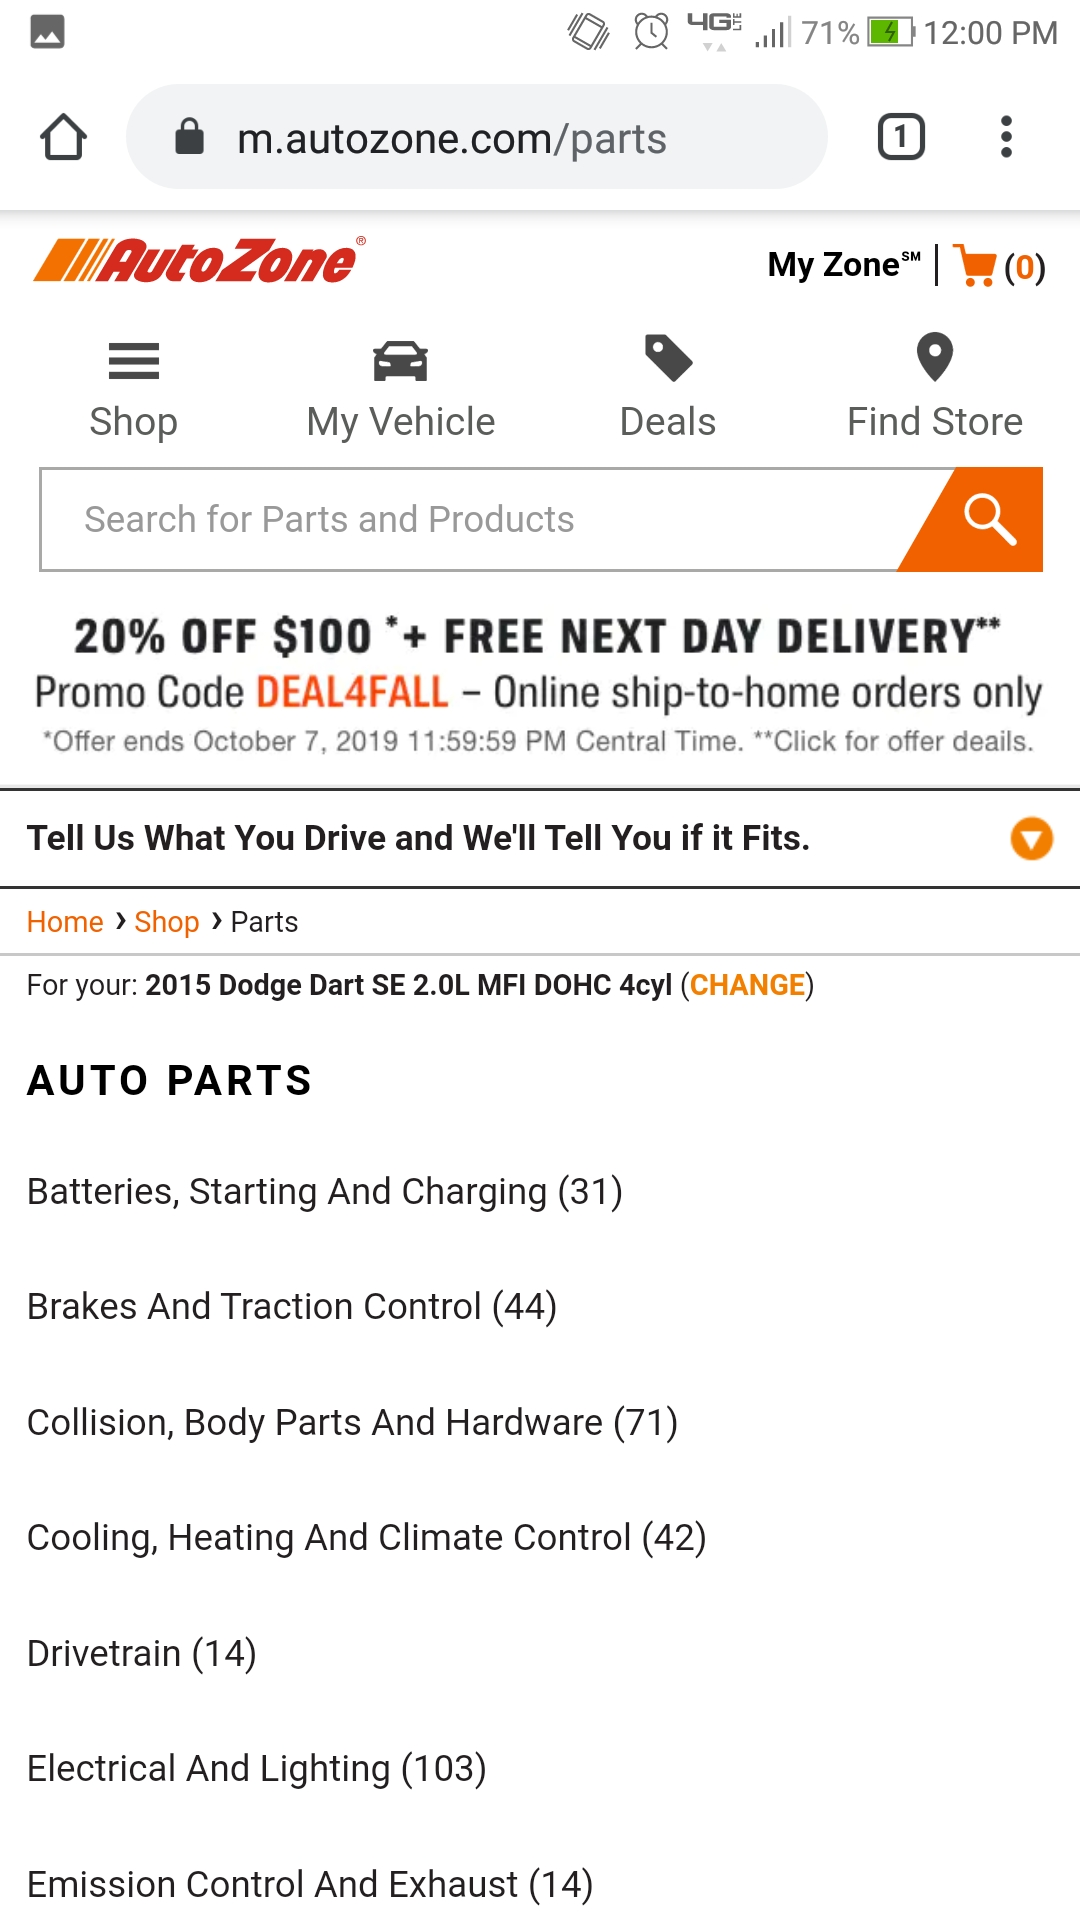
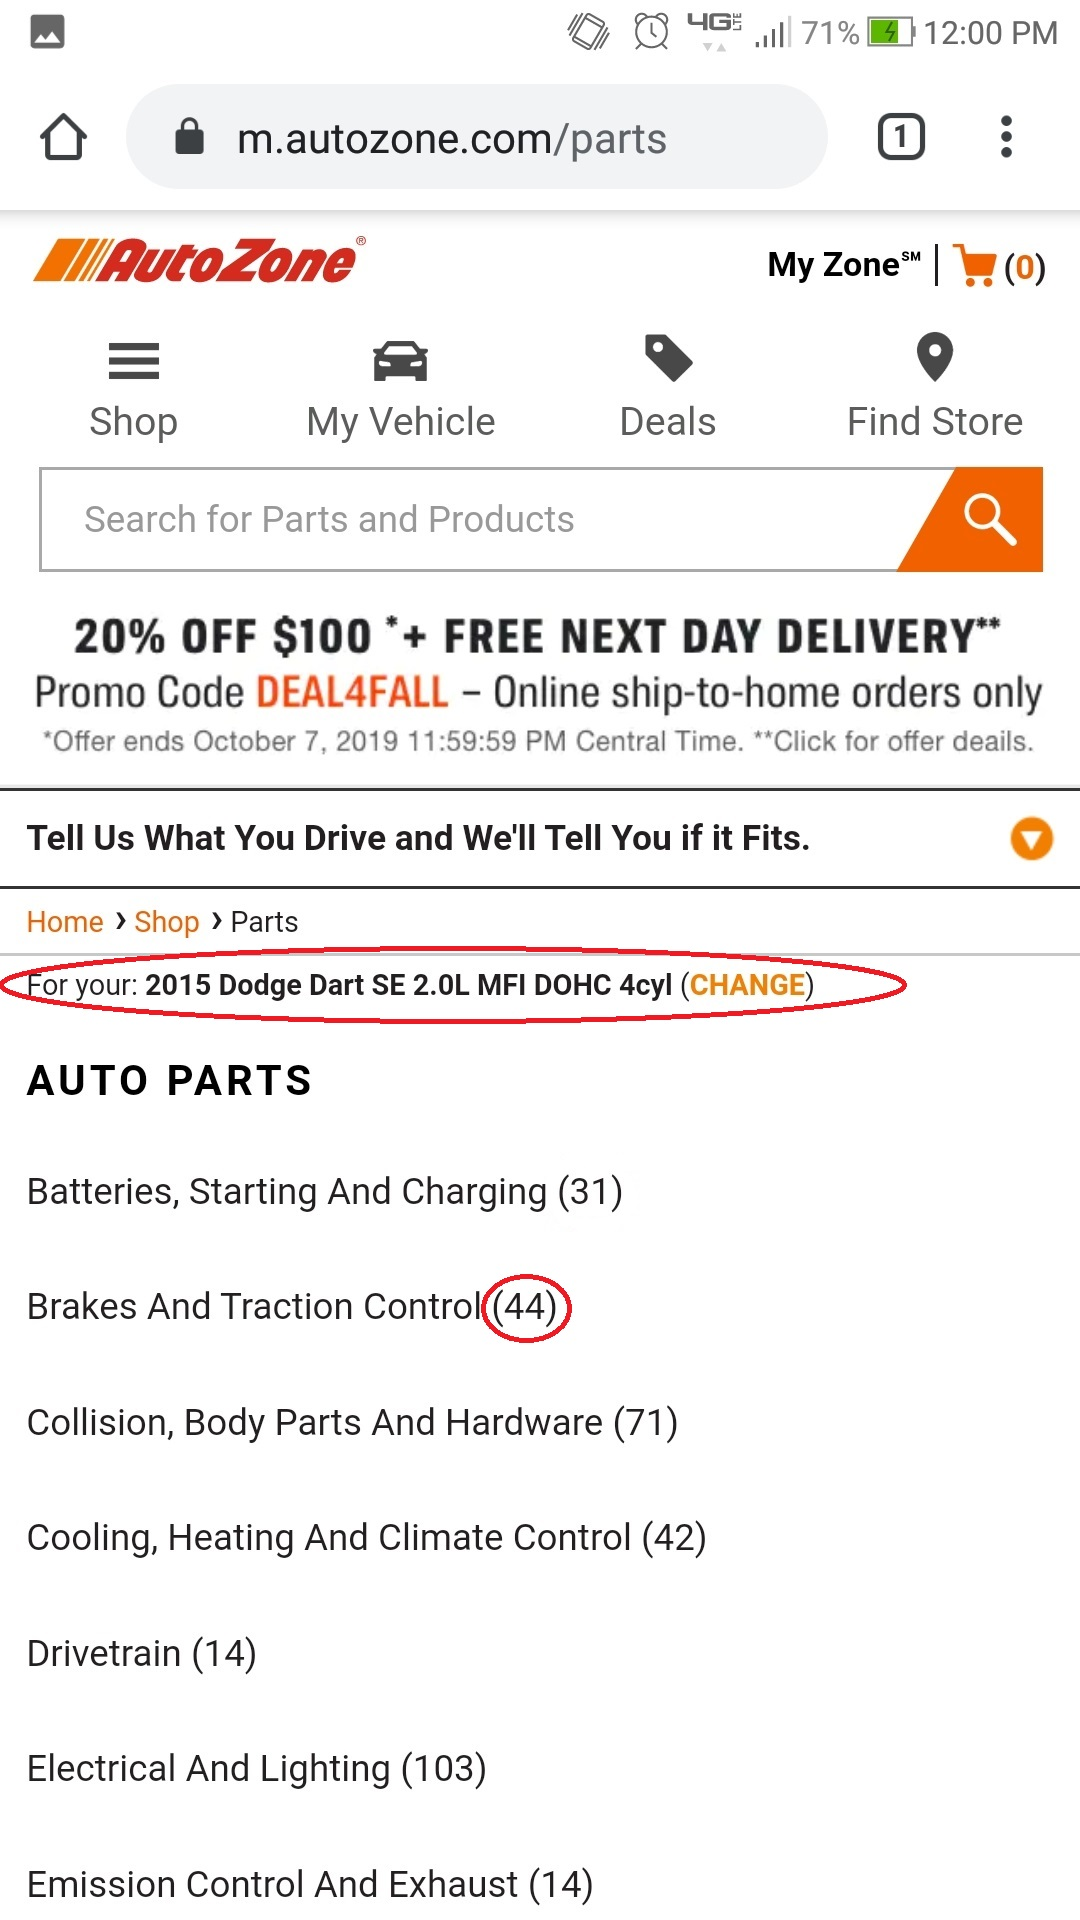
update

diff --git a/lesson2/design-principles.html b/lesson2/design-principles.html
@@ -16,13 +16,40 @@
     </div>
     <!--Principle name, organization name, website hyperlink, screenshot, description-->
     <div id="visual-heirarchy">    
-        <h2>Visual Heirarchy</h2><br><hr>
+        <h2>Visual Heirarchy</h2><br>
+        <h3>Fingerhut</h3><br>
+        <p>
+            <a href="www.fingerhut.com">www.fingerhut.com</a>
+            <img id="" src="/images/fingerhut.jpg" alt="screenshot of fingerhut mobile site">
+            Fingerhut uses visual heirarchy to encourage people to apply for their credit card. This screenshot shows that the "Apply Now" button is bigger than the buttons to shop by categories.
+        </p>
+        <h3>Scouts</h3>
+        <p>
+            <a href="www.scouting.org">www.scouting.org</a>
+            <img src="/images/scouts.jpg" alt="screenshot of scouting dot org's mobile site">
+            Scouting.org also uses visual heirarchy to encourage people to join Scouts. This screenshot shows that the "Find Scouts in Your Area" button is the first on the screen as you scroll down.
+        </p>
     </div>
-    <div id="fitts-law">
+    <div id="fitts-law"><!--distance/size of target, kaiser-->
         <h2>Fitt's Law</h2>
+        <h3>Kaiser</h3>
+        <p>
+            <a href="m.kp.org">m.kp.org</a>
+            <img src="/images/kaiser1.jpg" alt="screenshot of Kaiser's mobile website">
+            Kaiser Permanente uses Fitt's Law to make it easier to navigate their website. On the login screen, the user id and password text areas, as well as the login button are large and prominent. Other helpful links, such as ID and password help, are smaller and lower on the page.
+            <img src="/images/kaiser2.jpg" alt="screenshot of Kaiser's mobile website">
+            Once you're logged in, the website continues using Fitt's Law. This screenshot shows the notification area is larger than other links on the page. I don't have any notifications at the moment, but if I did they would be displayed here, with links to view more details
+        </p>
     </div>
-    <div id="hicks-law">
+    <div id="hicks-law"><!--too many choices, autozone-->
         <h2>Hick's Law</h2>
+        <h3>AutoZone</h3>
+        <p>
+            <img src="/images/autozone1" alt="screenshot of AutoZone's mobile website">
+            AutoZone uses Hick's Law and filters to make their website easier to navigate. As an automotive parts store, they have more than 200,000 car parts you could buy. In this screenshot you can see that they offer nearly 50 thousand parts in the brakes and traction control category alone. Trying to find the right part would be a difficult task.
+            <img src="/images/autozone2" alt="screenshot of AutoZone's mobile website">
+            Fortunately AutoZone allows you to input your particular car to narrow your results. Here you can see that the list of brakes and traction control parts that <strong>fit my car</strong> is much smaller, less than 50.
+        </p>
     </div>
     <div class="bars"><!--bottom row-->
         <div id="footer">&copy; <span id="year"></span> | Wendi Stark | California | <a target="_blank" href="http://www.byui.edu/online">BYUI Online Learning</a><br>
